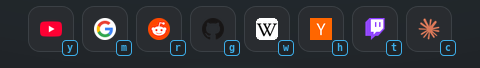
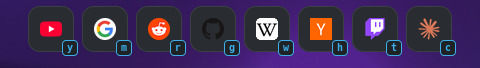
Lava lamp background: WebGL port of the Plasma wallpaper, with an on/off button
Same shader and nine drifting moods as the lava-wallpaper Plasma plugin, on the wall
clock so page and desktop match. Half resolution at 30 fps, paused with the tab,
one still frame under reduced motion. The bottom-right button toggles it and the
choice is remembered; config.js sets the starting state, mood, speed and brightness.

diff --git a/index.html b/index.html
@@ -196,10 +196,27 @@
   .more .tag { color: var(--tabc); border: 1px solid var(--line); border-radius: 999px; padding: 1px 7px; }
   .more .go { color: var(--tabc); cursor: pointer; margin-left: auto; }
   .more .go:hover { text-decoration: underline; }
+  /* lava lamp background (WebGL) and its on/off button */
+  #lava { position: fixed; inset: 0; width: 100%; height: 100%; z-index: -1; display: none; }
+  body.lava #lava { display: block; }
+  #lavabtn {
+    position: fixed; right: 14px; bottom: 14px; z-index: 6; width: 34px; height: 34px; border-radius: 50%;
+    display: grid; place-items: center; cursor: pointer; padding: 0;
+    background: color-mix(in srgb, var(--surface) 70%, transparent); border: 1px solid var(--line);
+    opacity: .45; transition: opacity .15s, border-color .15s;
+  }
+  #lavabtn:hover, #lavabtn:focus-visible { opacity: 1; border-color: var(--accent); outline: none; }
+  #lavabtn svg { width: 18px; height: 18px; fill: none; stroke: var(--muted); stroke-width: 1.8; }
+  body.lava #lavabtn svg { fill: var(--accent); stroke: var(--accent); }
+  #lavabtn[hidden] { display: none; }
   @media (prefers-reduced-motion: reduce) { .card, .card *, #links a { transition: none !important; animation: none !important; } }
 </style>
 </head>
 <body>
+<canvas id="lava" aria-hidden="true"></canvas>
+<button id="lavabtn" hidden title="Lava lamp background" aria-label="Lava lamp background" aria-pressed="false">
+  <svg viewBox="0 0 24 24"><path d="M9 3h6l-1 4c2.5 1.5 4 4 4 7a6 6 0 0 1-12 0c0-3 1.5-5.5 4-7z"/></svg>
+</button>
 <header>
   <div id="clock"></div>
   <div id="date"></div>
@@ -372,6 +389,123 @@ async function nowPlaying() {
   if (t.cover && img.src !== t.cover) img.src = t.cover;
 }
 if (NP.video || NP.pear) { nowPlaying(); setTimeout(nowPlaying, 1500); setInterval(nowPlaying, 4000); }
+
+// lava lamp background: WebGL port of the Plasma "Lava Lamp" wallpaper. Colours drift through
+// the moods on the wall clock, so it matches the desktop version at the same hour.
+const LAVA = { speed: 1, brightness: 1, cycleHours: 6, mood: "", fps: 30, scale: 0.5, ...CFG.lava };
+const LAVA_KEY = "startpage.lava";
+const MOODS = [  // [name, base, A, B, C]
+  ["Nebula", "#100f2a", "#7a2a9e", "#c2306a", "#2a6f9e"], ["Deep Sea", "#0a1422", "#1e5f8c", "#2a86b8", "#264a8a"],
+  ["Aurora", "#0a161a", "#1b7f86", "#3fa36b", "#4a3f9e"], ["Twilight", "#141024", "#5a3fae", "#2f6fb8", "#a0407a"],
+  ["Ember", "#150c14", "#a8321e", "#c0602a", "#7a1f4c"], ["Rose Dusk", "#160e1c", "#b0406a", "#7d3f9e", "#c0664a"],
+  ["Midnight Teal", "#081418", "#1f7a8a", "#1e4f7a", "#2e8f80"], ["Ultraviolet", "#0f0c20", "#6a2ab8", "#3a3aa8", "#b0308a"],
+  ["Smoke & Ice", "#0e1013", "#3a5a78", "#5a5a80", "#2a6f8a"],
+];
+const LAVA_FRAG = `precision mediump float;
+uniform float time, brightness, sizeScale, haze;
+uniform vec2 resolution;
+uniform vec3 base, colA, colB, colC;
+float hash(vec2 p) { return fract(sin(dot(p, vec2(12.9898, 78.233))) * 43758.5453); }
+void main() {
+  vec2 uv = vec2(gl_FragCoord.x, resolution.y - gl_FragCoord.y) / resolution;
+  float s = min(resolution.x, resolution.y);
+  vec2 ext = resolution / s, p = uv * ext;   // units of the short side: blobs stay round
+  float field = 0.0;
+  vec3 tint = vec3(0.0);
+  for (int i = 0; i < 9; i++) {
+    float fi = float(i);
+    float r = (0.10 + 0.07 * fract(fi * 0.618)) * sizeScale;
+    float sp = 0.035 + 0.02 * fract(fi * 0.377);   // slow rise and fall like wax, lazy sideways drift
+    float y = (0.5 + 0.5 * sin(time * sp + fi * 2.1)) * (ext.y + 0.4) - 0.2;
+    float x = (0.5 + 0.42 * sin(time * sp * 0.7 + fi * 1.3) * cos(time * 0.011 + fi)) * ext.x;
+    vec2 d = p - vec2(x, y);
+    d.y *= 1.0 + 0.25 * sin(time * 0.05 + fi);    // squish as they move
+    float f = r * r / (dot(d, d) + 1e-4);
+    field += f;
+    float k = mod(fi, 3.0);
+    tint += (k < 0.5 ? colA : (k < 1.5 ? colB : colC)) * f;
+  }
+  tint /= max(field, 1e-4);
+  float body = smoothstep(0.92, 1.08, field);
+  float glow = smoothstep(0.05, 0.9, field) * haze;
+  float core = clamp((field - 1.0) * 0.4, 0.0, 1.0);
+  vec3 col = mix(base, tint * 0.4, glow);
+  col = mix(col, tint * (0.5 + 0.3 * core), body) * brightness;
+  vec2 v = uv - 0.5;
+  col *= 1.0 - 0.35 * dot(v, v);                                  // vignette
+  col += (hash(gl_FragCoord.xy + fract(time)) - 0.5) / 255.0 * 1.5;  // grain, so dark gradients don't band
+  gl_FragColor = vec4(col, 1.0);
+}`;
+const rgb = h => [1, 3, 5].map(i => parseInt(h.slice(i, i + 2), 16) / 255);
+const lava = { gl: null, u: {}, raf: 0, time: Math.random() * 1000, last: 0, look: null, lookAt: 0 };
+function lavaLook() {  // colours and slow structural wander, recomputed every 2 s like the wallpaper
+  const h = Date.now() / 3600000, fixed = MOODS.findIndex(m => m[0].toLowerCase() === String(LAVA.mood).toLowerCase());
+  let pal;
+  if (fixed >= 0) pal = MOODS[fixed].slice(1).map(rgb);
+  else {
+    const pos = h / Math.max(0.1, LAVA.cycleHours) * MOODS.length, i = Math.floor(pos) % MOODS.length;
+    let t = pos - Math.floor(pos); t = t * t * t * (t * (t * 6 - 15) + 10);  // smootherstep
+    const a = MOODS[i].slice(1).map(rgb), b = MOODS[(i + 1) % MOODS.length].slice(1).map(rgb);
+    pal = a.map((c, k) => c.map((x, j) => x + (b[k][j] - x) * t));
+  }
+  const w = (period, phase) => Math.sin(2 * Math.PI * h / period + phase);
+  return { pal, sizeScale: 1 + 0.2 * w(2.3, 0) + 0.08 * w(0.77, 1), haze: 0.2 + 0.08 * w(3.1, 2), flow: 1 + 0.35 * w(1.7, 4) };
+}
+function lavaInit() {
+  const c = $("#lava"), gl = c.getContext("webgl", { antialias: false, alpha: false, powerPreference: "low-power" });
+  if (!gl) return false;
+  const sh = (type, code) => { const s = gl.createShader(type); gl.shaderSource(s, code); gl.compileShader(s); return s; };
+  const pr = gl.createProgram();
+  gl.attachShader(pr, sh(gl.VERTEX_SHADER, "attribute vec2 p; void main() { gl_Position = vec4(p, 0.0, 1.0); }"));
+  gl.attachShader(pr, sh(gl.FRAGMENT_SHADER, LAVA_FRAG));
+  gl.linkProgram(pr);
+  if (!gl.getProgramParameter(pr, gl.LINK_STATUS)) { console.warn("lava:", gl.getProgramInfoLog(pr)); return false; }
+  gl.useProgram(pr);
+  gl.bindBuffer(gl.ARRAY_BUFFER, gl.createBuffer());
+  gl.bufferData(gl.ARRAY_BUFFER, new Float32Array([-1, -1, 3, -1, -1, 3]), gl.STATIC_DRAW);  // one triangle covers the screen
+  gl.enableVertexAttribArray(0); gl.vertexAttribPointer(0, 2, gl.FLOAT, false, 0, 0);
+  for (const n of ["time", "brightness", "sizeScale", "haze", "resolution", "base", "colA", "colB", "colC"]) lava.u[n] = gl.getUniformLocation(pr, n);
+  lava.gl = gl;
+  return true;
+}
+function lavaDraw() {
+  const gl = lava.gl, c = gl.canvas, u = lava.u;
+  const w = Math.max(1, Math.round(innerWidth * LAVA.scale)), h = Math.max(1, Math.round(innerHeight * LAVA.scale));
+  if (c.width !== w || c.height !== h) { c.width = w; c.height = h; gl.viewport(0, 0, w, h); }
+  if (!lava.look || Date.now() - lava.lookAt > 2000) { lava.look = lavaLook(); lava.lookAt = Date.now(); }
+  const L = lava.look;
+  gl.uniform1f(u.time, lava.time); gl.uniform1f(u.brightness, LAVA.brightness);
+  gl.uniform1f(u.sizeScale, L.sizeScale); gl.uniform1f(u.haze, L.haze);
+  gl.uniform2f(u.resolution, w, h);
+  ["base", "colA", "colB", "colC"].forEach((n, i) => gl.uniform3fv(u[n], L.pal[i]));
+  gl.drawArrays(gl.TRIANGLES, 0, 3);
+}
+function lavaFrame(now) {
+  lava.raf = requestAnimationFrame(lavaFrame);  // browsers stop this while the tab is hidden
+  if (lava.last && now - lava.last < 1000 / LAVA.fps - 2) return;
+  if (lava.last) lava.time += Math.min(now - lava.last, 100) / 1000 * LAVA.speed * (lava.look?.flow || 1);
+  lava.last = now;
+  lavaDraw();
+}
+function lavaSet(on) {
+  if (on && !lava.gl && !lavaInit()) { $("#lavabtn").hidden = true; return; }  // no WebGL: no button either
+  document.body.classList.toggle("lava", on);
+  $("#lavabtn").setAttribute("aria-pressed", on);
+  cancelAnimationFrame(lava.raf); lava.last = 0;
+  if (!on) return;
+  if (matchMedia("(prefers-reduced-motion: reduce)").matches) { lavaDraw(); addEventListener("resize", () => document.body.classList.contains("lava") && lavaDraw()); }
+  else lava.raf = requestAnimationFrame(lavaFrame);
+}
+{
+  let saved = null; try { saved = localStorage.getItem(LAVA_KEY); } catch {}
+  $("#lavabtn").hidden = false;
+  $("#lavabtn").onclick = () => {
+    const on = !document.body.classList.contains("lava");
+    try { localStorage.setItem(LAVA_KEY, on ? "on" : "off"); } catch {}
+    lavaSet(on);
+  };
+  lavaSet(saved ? saved === "on" : LAVA.on !== false);
+}
 
 // news
 const TAB_KEY = "startpage.newsTab";

diff --git a/config.example.js b/config.example.js
@@ -23,6 +23,12 @@ window.STARTPAGE = {
   seconds: true,            // the small seconds after the minutes
   locale: "",               // date language, e.g. "en-GB", "fr-FR"; "" follows the browser
 
+  // Lava lamp background. The round button at the bottom right turns it on and off, and the page
+  // remembers that; `on` is only the starting state. mood: "" drifts through all nine over
+  // cycleHours, or name one: Nebula, Deep Sea, Aurora, Twilight, Ember, Rose Dusk,
+  // Midnight Teal, Ultraviolet, Smoke & Ice.
+  lava: { on: true, mood: "", cycleHours: 6, speed: 1, brightness: 1, fps: 30 },
+
   // Optional "now playing" card. Endpoints that answer JSON, polled every 4 s:
   //   video: { id, title, author, url, cover } (obs-pear-remote's extras/serve.py serves /mpris.json)
   //   pear:  Pear Desktop's Amuse plugin, http://127.0.0.1:9863/query

diff --git a/README.md b/README.md
@@ -3,7 +3,7 @@
 # startpage
 
 **A new-tab page for Firefox: a big clock, the weather, your sites on single keys, and news cards
-from any RSS feed.**<br>
+from any RSS feed, over a slow lava lamp.**<br>
 One HTML file. No build, no extension, no account. Python only to fetch the headlines.
 
 [![Firefox](https://img.shields.io/badge/Firefox-new%20tab%20%2B%20homepage-ff7139?logo=firefoxbrowser&logoColor=white)](#quick-start)
@@ -29,6 +29,9 @@ One HTML file. No build, no extension, no account. Python only to fetch the head
 - **News cards in tabs**, from whatever RSS or Atom feeds you list. Every card gets a picture
   (from the feed, or the article's preview image when the feed has none), and hovering it shows the
   summary. The page picks how many rows fit your screen, so it never scrolls.
+- **A lava lamp behind it all**: slow wax blobs in WebGL, drifting through nine dark colour moods
+  over six hours. The round button at the bottom right turns it off and on, and the page remembers.
+  It's a port of a KDE Plasma wallpaper, so the page and the desktop can match.
 - **Optional "now playing" card** for [Pear Desktop](https://github.com/pear-devs/pear-desktop) or
   a browser video, with [obs-pear-remote](https://github.com/cybWasHere/obs-pear-remote)'s server.
 
@@ -120,6 +123,7 @@ window.STARTPAGE = {
   clock24: true,               // false for 1:42 pm
   seconds: true,
   locale: "",                  // date language like "fr-FR"; "" follows the browser
+  lava: { on: true, mood: "", cycleHours: 6, speed: 1, brightness: 1, fps: 30 },
   nowPlaying: null,
 };
 ```
@@ -166,6 +170,9 @@ with the installer.
 - **What it talks to:** Open-Meteo for weather and the city lookup (the result is remembered), the
   feeds you list, the sites' images for the cards (sent without a referrer), and DuckDuckGo's icon
   service for the dock icons. No analytics, no accounts.
+- **The lava lamp** renders at half resolution and 30 fps (it's all soft gradients, so it looks the
+  same), and stops whenever the tab is in the background. With *reduce motion* set in your system,
+  it draws one still frame. No WebGL? The button just doesn't appear.
 - **Updating:** `git pull`. Your `config.js` and `feeds.json` are untouched. Rerun `install.py`
   only if you moved the folder.
 - **Uninstall:** `python3 install.py --uninstall`, restart Firefox, delete the folder.
